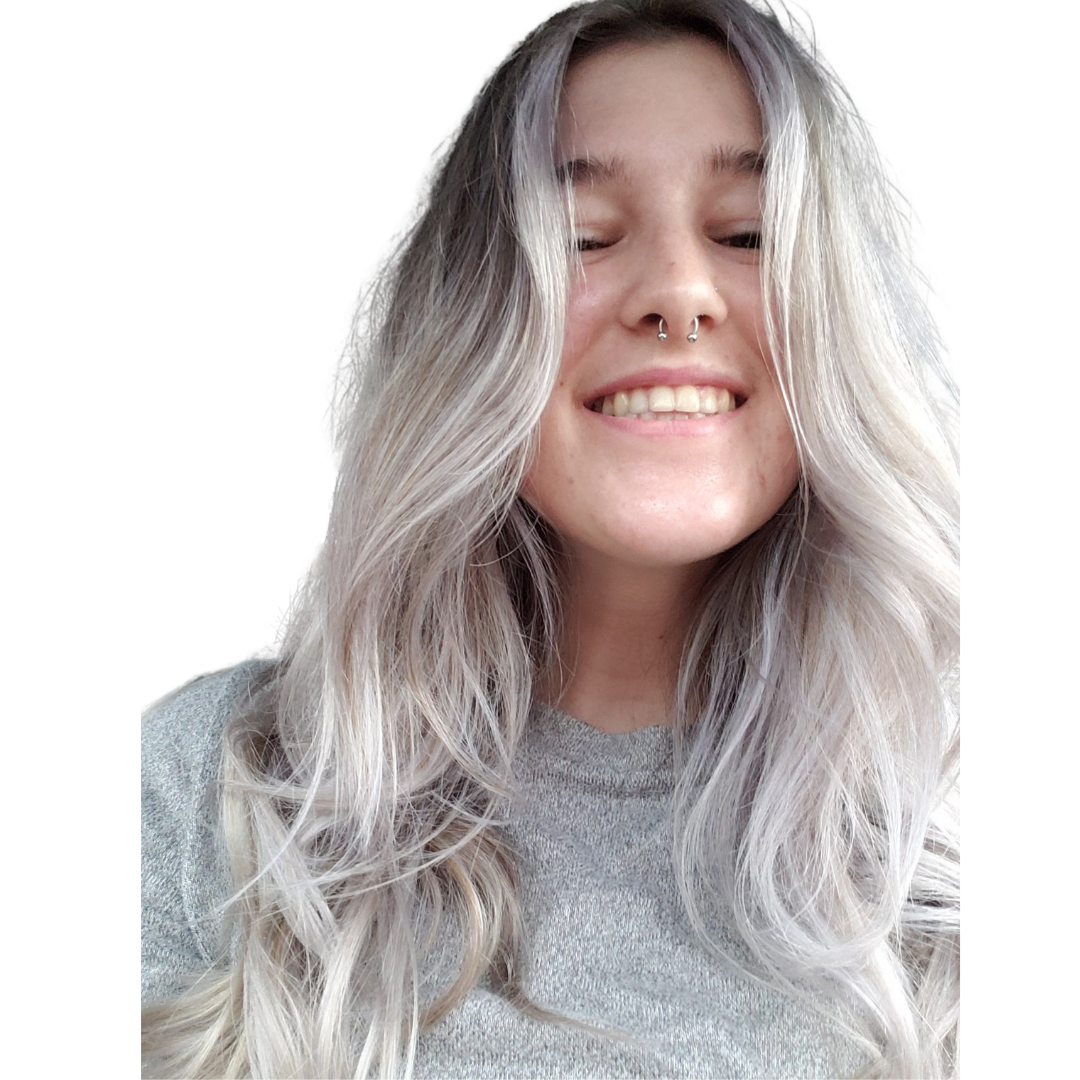
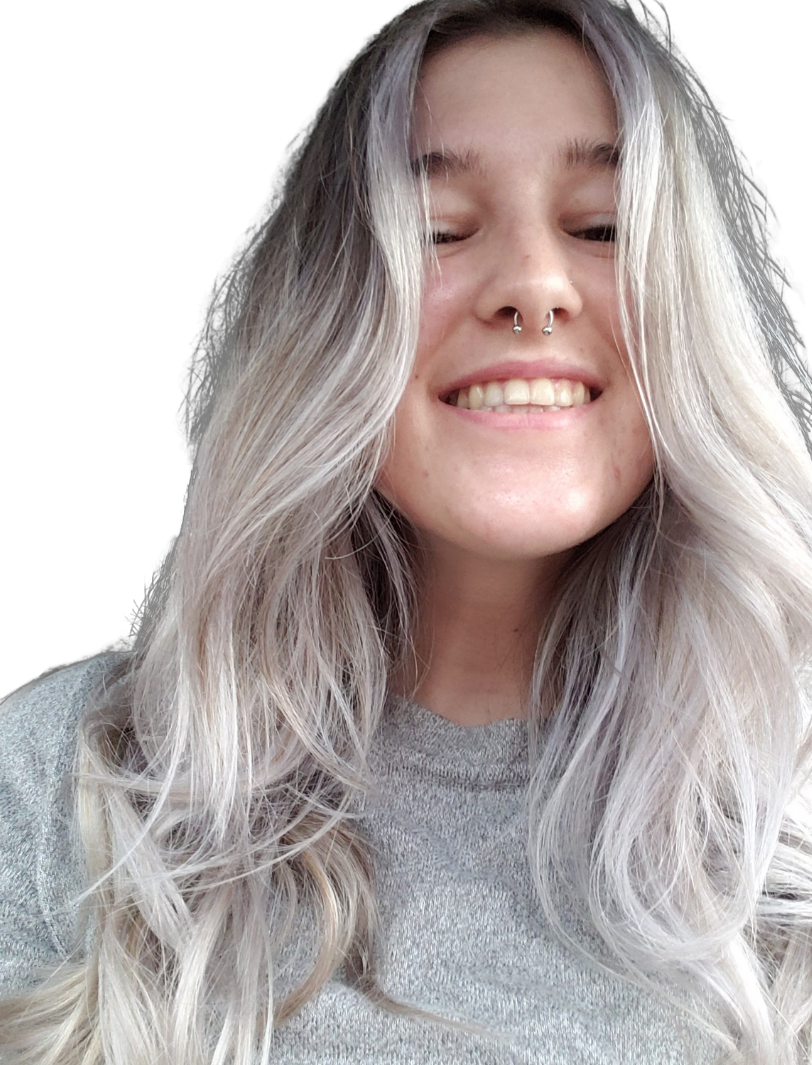
styling about component complete

diff --git a/src/components/About/index.js b/src/components/About/index.js
@@ -3,18 +3,19 @@ import selfPortrait from '../../assets/images/self-portrait.png';
 
 function About() {
     return (
-        <section>
-            <h1 id='about'>About Me!</h1>
-            <img src={selfPortrait} className='self-portrait' style={{ width: "25%" }} alt='Self portrait' />
-            <div className='about-me-desc'>
-                <p>
-                    Lorem ipsum dolor sit amet, consectetur adipiscing elit. Donec bibendum turpis sed ex
-                    condimentum molestie. Mauris condimentum lectus ut ornare dignissim. Mauris faucibus urna
-                    mi, ac feugiat metus aliquam maximus. Proin aliquam justo nec diam vulputate vestibulum.
-                    Aenean sollicitudin nulla at nisi ornare, nec suscipit massa eleifend. Morbi tristique
-                    justo vel turpis sollicitudin, et tristique velit convallis. In hac habitasse platea
-                    dictumst. Phasellus mattis nunc sed orci consequat laoreet. Praesent id nisl nibh.
-                    Curabitur imperdiet ultricies mollis. In hac habitasse platea dictumst.
+        <section className='py-5 text-center'>
+            <h1 className='mb-4'>Hey, I'm Maggie!</h1>
+            <img src={selfPortrait} className='mb-4 border border-dark border-3' style={{ width: "25%" }} alt='Self portrait' />
+            <div>
+                <p id='about' className='pb-5'>
+                    Hi! Thank you for visiting my portfolio! I'm a full stack web developer that recently completed the Full Stack Coding Program with the University of Toronto.
+                    Over the past six months I've gotten a crash course on all things coding. I've gained skills with front-end knowledge with HTML, CSS, React in addition to
+                    back-end knowledge with JavaScript, MySQL, MongoDB, node.js and much more!
+                    <br />
+                    <br />
+                    I'm looking forward to taking all the knowledge I've learned and apply it to exciting web designs with a passionate team of developers!
+                    With my several years of experience in customer service and management I think I have all the qualities to fit your team!
+                    Please visit the contact me sections so we can get in touch! I look forward to meeting you!
                 </p>
             </div>
         </section>

diff --git a/src/App.css b/src/App.css
@@ -47,4 +47,17 @@ li a {
 
 #footer {
   background-color: var(--lincoln-green);
+  position: fixed;
+  bottom: 0;
+  width: 100%;
 }
+
+/* ABOUT ME */
+
+/* #about {
+  margin-bottom: 0rem;
+} */
+
+/* .self-portrait {
+  
+} */
